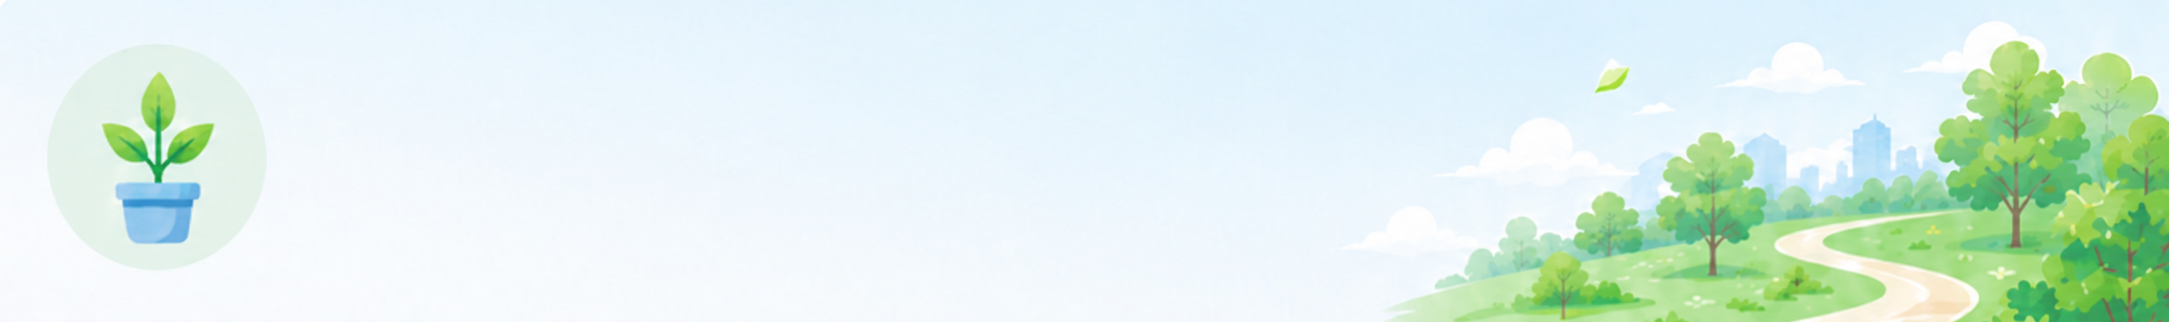
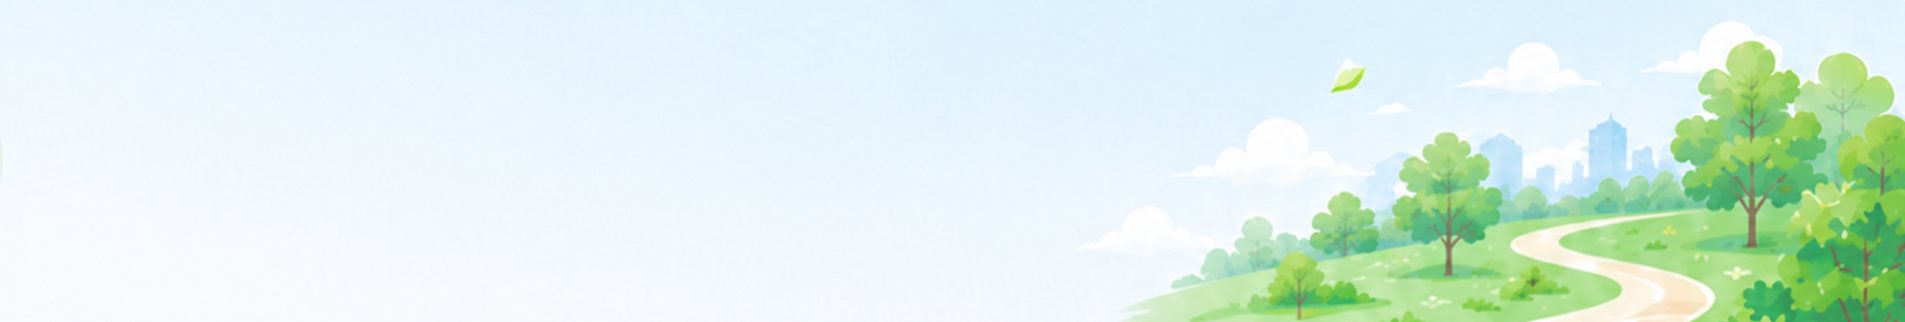
달리기 홈/미션/퀴즈 화면 다듬기 + 하단 배너 캐러셀
- RunningHome: 코스 진행률 미니맵(RunningCourseMini) 정렬, 지표 텍스트 크기·정렬, 하단 배너 5초 자동 슬라이드(문구+화분 함께), 문구 개선
- WeeklyStreak: 카드/와이드 변형 텍스트 위치·크기 정리, "최고 기록" 라벨 제거
- RunningMissionHero/RunningQuizHero: 문구·정렬 다듬기
- missionLibrary: 공감 미션 문구 정정("고마움 전하기")
- banner.png 배경 제거 + banner2.jpg 추가(2종 캐러셀)
- docs/PRODUCT_PLAN.md 갱신

diff --git a/src/components/program/RunningHome.jsx b/src/components/program/RunningHome.jsx
@@ -1,4 +1,5 @@
 import { useState, useRef, useEffect } from 'react'
+import { motion, AnimatePresence } from 'framer-motion'
 import { Timer, Flame, Megaphone, Footprints, Star, ClipboardList, HelpCircle, MessageSquare, ChevronRight, Check, Pencil, X } from 'lucide-react'
 import WeeklyStreak from './WeeklyStreak'
 import RunningCourseMini from './RunningCourseMini'
@@ -20,6 +21,47 @@ function AssetImg({ src, fallback, className }) {
   return <img src={src} alt="" aria-hidden="true" className={className} onError={() => setErr(true)} />
 }
 
+// 하단 격려 배너 — 배경 일러스트 + 문구가 함께 5초마다 옆으로 슬라이드(무한 루프).
+//   화분 아이콘만 고정(원형 흰 배경) + 컨테이너 높이를 정의해 원래 크기(≈78px) 유지.
+const BANNER_SLIDES = [
+  { img: `${RUN}/banner.png`,  title: '오늘도 한 걸음 더, 가볍게 달려봐요', sub: '작은 습관이 큰 변화를 만들어요!' },
+  { img: `${RUN}/banner2.jpg`, title: '멈추지 않으면, 결국 도착해요',        sub: '어제의 나보다 딱 1분 더!' },
+]
+function BottomBanner() {
+  const [idx, setIdx] = useState(0)
+  useEffect(() => {
+    const t = setInterval(() => setIdx((i) => (i + 1) % BANNER_SLIDES.length), 5000)
+    return () => clearInterval(t)
+  }, [])
+  const s = BANNER_SLIDES[idx]
+  return (
+    <div className="relative overflow-hidden rounded-2xl border border-gray-100 shadow-soft bg-gradient-to-r from-sky-50 to-emerald-50 h-[78px]">
+      {/* 배경 + 화분 + 문구 — 한 덩어리로 5초마다 좌측 슬라이드 인/아웃(원래 크기 유지 위해 컨테이너 높이 고정) */}
+      <AnimatePresence initial={false}>
+        <motion.div
+          key={idx}
+          className="absolute inset-0"
+          initial={{ x: '100%' }}
+          animate={{ x: 0 }}
+          exit={{ x: '-100%' }}
+          transition={{ duration: 0.6, ease: [0.4, 0, 0.2, 1] }}
+        >
+          <AssetImg src={s.img} className="absolute inset-0 w-full h-full object-cover" fallback={<span />} />
+          <div className="relative z-10 flex items-center gap-3 p-4 h-full">
+            <span className="w-11 h-11 rounded-full bg-white/70 flex items-center justify-center flex-shrink-0">
+              <AssetImg src={`${RUN}/plant.png`} className="w-9 h-9 object-contain" fallback={<span className="text-xl">🌱</span>} />
+            </span>
+            <div className="min-w-0">
+              <p className="text-[13px] font-extrabold text-gray-800 truncate">{s.title}</p>
+              <p className="text-[11px] text-gray-500 mt-0.5 truncate">{s.sub}</p>
+            </div>
+          </div>
+        </motion.div>
+      </AnimatePresence>
+    </div>
+  )
+}
+
 // 미션/퀴즈/커뮤니티 진입 카드 — 비활성 메뉴는 호출부에서 제외(여기선 항상 활성 박스만 렌더).
 //   sized=true(박스 2개 이하): 170×133 고정 / false(3개): 그리드 셀에 맞춤.
 function NavCard({ icon, title, desc, actionLabel = '바로가기', onClick, sized = false, nudgeX = 0 }) {
@@ -29,7 +71,7 @@ function NavCard({ icon, title, desc, actionLabel = '바로가기', onClick, siz
         {icon}
         <p className="text-[12px] font-bold text-gray-800 leading-tight break-keep" style={{ transform: `translate(${nudgeX}px, 4px)` }}>{title}</p>
       </div>
-      <p className="text-[10.5px] text-gray-500 leading-snug text-center">{desc}</p>
+      <p className="text-[11.5px] text-gray-500 leading-snug text-center">{desc}</p>
       <button type="button" onClick={onClick}
         className="h-8 rounded-lg bg-emerald-500 hover:bg-emerald-600 text-white text-[11px] font-bold flex items-center justify-center gap-0.5 transition">
         {actionLabel} <ChevronRight className="w-3.5 h-3.5" />
@@ -356,7 +398,7 @@ function RunningHome({
             <div key={i} className={`flex-1 flex flex-col items-center text-center px-1 ${i !== 0 ? 'border-l border-gray-100' : ''}`}>
               <div className="flex items-center gap-0.5 mb-1">
                 <AssetImg src={c.img} className="w-[18px] h-[18px] object-contain" fallback={c.fb} />
-                <span className="text-[10px] text-gray-400">{c.label}</span>
+                <span className="text-[11px] text-gray-400 whitespace-nowrap">{c.label}</span>
               </div>
               <span className="text-[15px] font-extrabold text-gray-900 leading-tight"><CountUp value={c.num} format={c.fmtFn} duration={1100} /><span className="text-[10px] font-medium text-gray-400 ml-0.5">{c.unit}</span></span>
             </div>
@@ -370,7 +412,7 @@ function RunningHome({
         <div className="w-[42%] flex-shrink-0 px-4 py-3 flex flex-col justify-center">
           <div className="flex items-center gap-1.5 mb-0.5">
             <AssetImg src={`${RUN}/runner.png`} className="w-5 h-5 object-contain" fallback={<span className="text-[15px]">🏃</span>} />
-            <h3 className="text-[13px] font-bold text-gray-800 truncate">{programName} 진행률</h3>
+            <h3 className="text-[13px] font-bold text-gray-800 truncate">프로그램 진행률</h3>
           </div>
           <p className="text-[11px] text-gray-400 leading-snug">{yy(startDate)} ~ {yy(endDate)}</p>
         </div>
@@ -403,19 +445,8 @@ function RunningHome({
         )
       })()}
 
-      {/* 6) 하단 격려 배너 (일러스트 배경) */}
-      <div className="relative overflow-hidden rounded-2xl border border-gray-100 shadow-soft bg-gradient-to-r from-sky-50 to-emerald-50">
-        <AssetImg src={`${RUN}/banner.png`} className="absolute inset-0 w-full h-full object-cover" fallback={<span />} />
-        <div className="relative flex items-center gap-3 p-4">
-          <span className="w-11 h-11 rounded-xl bg-white/70 flex items-center justify-center flex-shrink-0">
-            <AssetImg src={`${RUN}/plant.png`} className="w-9 h-9 object-contain" fallback={<span className="text-xl">🌱</span>} />
-          </span>
-          <div className="min-w-0">
-            <p className="text-[13px] font-extrabold text-gray-800">오늘도 한 걸음 더, 가볍게 달려봐요</p>
-            <p className="text-[11px] text-gray-500 mt-0.5">작은 습관이 큰 변화를 만들어요!</p>
-          </div>
-        </div>
-      </div>
+      {/* 6) 하단 격려 배너 — 배경 5초 슬라이드 + 화분 고정 오버레이 */}
+      <BottomBanner />
       {/* 추천 페이스 편집 — 화면 중앙 모달 */}
       {editingPace && (
         <div className="fixed inset-0 z-[60] flex items-center justify-center p-6" style={{ background: 'rgba(15,23,42,0.45)' }}

diff --git a/src/components/program/RunningCourseMini.jsx b/src/components/program/RunningCourseMini.jsx
@@ -122,7 +122,7 @@ function RunningCourseMini({ progress = 0, showTest = false, className = '' }) {
         </svg>
         {/* %배지 — 기본은 핀 위, 상단 근처(결승)면 tip 아래로 뒤집어 잘림·깃발 겹침 방지 */}
         <span
-          className="absolute px-1 py-[1px] rounded-full bg-white/90 backdrop-blur text-[9px] font-extrabold text-emerald-600 tabular-nums leading-none shadow-sm whitespace-nowrap"
+          className="absolute px-1 py-[1px] rounded-full bg-white/90 backdrop-blur text-[11px] font-extrabold text-emerald-600 tabular-nums leading-none shadow-sm whitespace-nowrap"
           style={{ transform: badgeBelow ? 'translate(-50%, 4px)' : 'translate(-50%, calc(-100% - 20px))' }}
         >
           {pct}%

diff --git a/src/components/program/RunningMissionHero.jsx b/src/components/program/RunningMissionHero.jsx
@@ -19,12 +19,12 @@ function ProgressRing({ done = 0, total = 0 }) {
         {total > 0 ? (
           <>
             <span className="text-[16px] font-extrabold text-gray-900 leading-none">{done}/{total}</span>
-            <span className="text-[9px] text-gray-400 mt-0.5">완료</span>
+            <span className="text-[11px] text-gray-400 mt-0.5">완료</span>
           </>
         ) : (
           <>
             <span className="text-[12px] font-extrabold text-gray-400 leading-none">휴식</span>
-            <span className="text-[9px] text-gray-300 mt-0.5">오늘</span>
+            <span className="text-[11px] text-gray-300 mt-0.5">오늘</span>
           </>
         )}
       </div>

diff --git a/src/components/program/WeeklyStreak.jsx b/src/components/program/WeeklyStreak.jsx
@@ -240,8 +240,7 @@ const WeeklyStreak = forwardRef(function WeeklyStreak({ count = 0, days = [], ic
             <div className="flex-1 flex items-center justify-center gap-1.5">{dayCells}</div>
             <div className="flex flex-col items-center flex-shrink-0">
               {flameEl}
-              <p className="text-[9px] text-gray-400 mt-1 leading-none">최고 기록</p>
-              <p className="text-[11px] font-extrabold text-gray-700 leading-none mt-0.5 whitespace-nowrap">{bestStreak}일 연속</p>
+              <p className="text-[11px] font-extrabold text-gray-700 leading-none mt-1 whitespace-nowrap">{bestStreak}일 연속</p>
             </div>
           </div>
         ) : (

diff --git a/src/lib/missionLibrary.js b/src/lib/missionLibrary.js
@@ -290,8 +290,8 @@ export const MISSION_LIBRARY = [
     emoji: '🤝',
     missions: [
       {
-        title: '오늘의 감사 한 줄',
-        instruction: '오늘 감사했던 일을 한 줄로 남겨주세요',
+        title: '고마움 전하기',
+        instruction: '오늘 누군가에게 전한 고마움을 한 줄로 남겨주세요',
         icon: 'diary.png',
         requires_image: false,
         requires_numeric: false,

diff --git a/src/components/program/RunningQuizHero.jsx b/src/components/program/RunningQuizHero.jsx
@@ -16,7 +16,7 @@ function QuizRing({ done = 0, total = 0 }) {
       </svg>
       <div className="absolute inset-0 flex flex-col items-center justify-center">
         <span className="text-[16px] font-extrabold text-gray-900 leading-none">{done}/{total}</span>
-        <span className="text-[9px] text-gray-400 mt-0.5">완료</span>
+        <span className="text-[11px] text-gray-400 mt-0.5">완료</span>
       </div>
     </div>
   )

diff --git a/docs/PRODUCT_PLAN.md b/docs/PRODUCT_PLAN.md
@@ -169,6 +169,38 @@
 - 웹: Vercel 배포(PWA). 청크 404 자가복구, 마이그레이션-코드 순서 안전 배포.
 - 자체 호스팅 분석(외부 추적 도구 미사용) — 개인정보·통제 관점 결정.
 
+### 6.4 UI/디자인 스펙 — 레이아웃·라운딩·간격·아이콘
+*(단일 출처: `src/index.css`의 `@theme` 토큰 + [DESIGN_SYSTEM.md](DESIGN_SYSTEM.md). 아래는 구현 관용 요약)*
+
+**레이아웃 배치**
+- **모바일 우선**. 페이지 컨테이너 `max-w-4xl mx-auto px-3 sm:px-4`(좌우 여백 12→16px).
+- 하단 **5탭 BottomTabBar**, 본문 하단 `pb-24`로 탭 가림 방지. 상단 헤더 `sticky`(좌: 뒤로 / 중앙: 제목 / 우: 액션).
+- 카드 세로 간격 `space-y-4`(섹션)·`space-y-3`(카드). 다중 카드는 `grid grid-cols-N gap-3`, 균등 높이는 `items-stretch`.
+- **테마 화면**: 달리기는 탭바 대신 RunningHome 단일 스크롤 대시보드(히어로→페이스/스트릭→요약→코스맵→진입 카드→배너).
+- 라우트 전환 시 `scrollTo(0,0)`, safe-area 패딩, 가로 스와이프 뒤로가기 차단.
+
+**모서리 라운딩(Radius)**
+- 토큰: `rounded-card` **24px**(기본 카드) · `rounded-card-lg` **28px**(강조 카드) · `rounded-pill` **9999px**(칩·뱃지·탭·CTA).
+- 콤팩트 카드·오버레이·이미지 컨테이너·모달 상단은 `rounded-2xl`(**16px**) 관용. 아이콘 원형 배경은 `rounded-full`. 진행 바 등은 `rounded-full`.
+
+**간격(Spacing) — 4px 베이스, 6단계**
+- **4 / 8 / 12 / 16 / 20 / 24**(Tailwind 1~6)만 사용해 톤 일관.
+- 아이콘↔텍스트 `gap-1~1.5` · 칩·인라인 `gap-2` · 카드 내 요소(썸네일↔본문) `gap-3`.
+- 카드 패딩 `sm=p-3` / **`md=p-4`(기본)** / `lg=p-5` · 모달·빈 상태 `p-6`.
+
+**아이콘(Icons) — 2계층**
+- ① **시스템 아이콘** `lucide-react`(UI 액션·메타·내비, `strokeWidth≈2`). ② **브랜드 일러스트 PNG**(미션·카테고리·러닝 아이콘 등) — `AssetImg`로 로드, 실패 시 `onError`로 lucide **fallback**.
+- 관용 크기: 내비 카드 **21×21** · 아이콘 원형 배경 **w-9(36px)** · 메타 아이콘 **w-3(12px)** · 헤더 액션 **w-5(20px)**.
+- 카테고리 이모지·액센트색(운동·달리기·식단·공감·마음관리·수면·금연·기타)은 `CATEGORY`·`programVisuals.CATEGORY_COLORS`와 연동.
+
+**그림자 · 버튼 · 타이포(요약)**
+- 그림자: `shadow-soft`(기본) / `shadow-elevated`(호버·강조) / `shadow-fab`(+버튼) — 그린 틴트.
+- Primary CTA: emerald→teal 그라데이션 **pill** 버튼. 비활성 `disabled:opacity-40`.
+- 글꼴 **Pretendard Variable**(자간 -0.01em), 본문 `text-sm`=15px 주력, 섹션 제목 `text-lg` bold.
+- 브랜드색 **Emerald**(Primary `#059669`/`#10b981` · Accent `#34D399` · Bg `#ECFDF5` · Ink `#073B33`).
+
+> 전체 디자인 토큰·타입 스케일·컴포넌트 프리미티브(Badge·IconBox·Card·Modal·EmptyState 등)는 [DESIGN_SYSTEM.md](DESIGN_SYSTEM.md)가 정본.
+
 ---
 
 ## 7. 운영 정책
